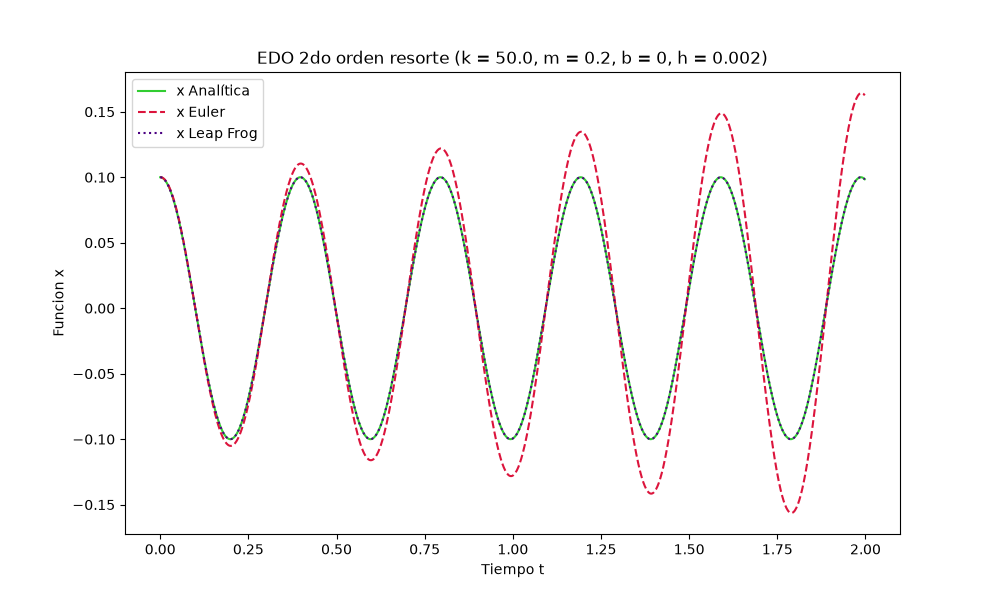
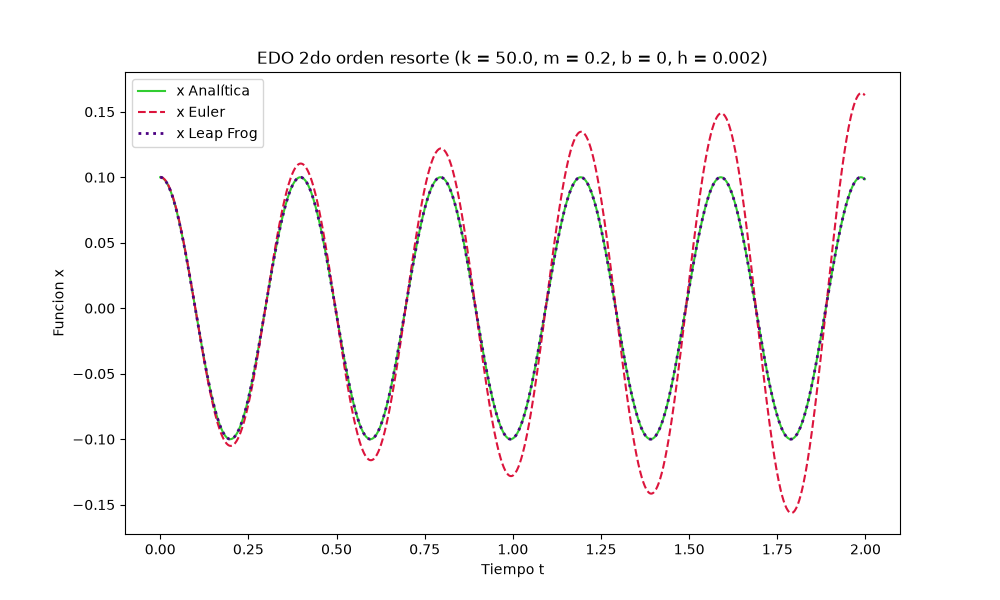
Linewidth scaled for better visibility.

diff --git a/S7/S7CASA/PLOTS_CristianParra_S7CASA_EDO2.py b/S7/S7CASA/PLOTS_CristianParra_S7CASA_EDO2.py
@@ -34,7 +34,7 @@ fig1, ax1 = plt.subplots(figsize=(10,6))
 # Gráfica del resorte
 ax0.plot(tiempo, analitica, label="x Analítica", color = "limegreen")
 ax0.plot(tiempo, x_Euler, label="x Euler", ls = "--", color = "crimson")
-ax0.plot(tiempo, x_LeapFrog, label="x Leap Frog", ls = ":", color = "indigo")
+ax0.plot(tiempo, x_LeapFrog, label="x Leap Frog", ls = ":", lw= 2, color = "indigo")
 ax0.set_xlabel("Tiempo t")
 ax0.set_ylabel("Funcion x")
 ax0.set_title(f"EDO 2do orden resorte (k = {k}, m = {m}, b = 0, h = {h})")
@@ -44,7 +44,7 @@ fig0.savefig("PLOTS_CristianParra_S6CASA_EDO2_RESORTE.png")
 # Gráfica del resorte amortiguado
 ax1.plot(tiempo, analitica_A, label="x Analítica Amortiguado", color = "limegreen")
 ax1.plot(tiempo, x_Euler_A, label="x Euler Amortiguado", ls = "--", color = "crimson")
-ax1.plot(tiempo, x_RK4_A, label="x RK4 Amortiguado", ls = ":", color = "indigo")
+ax1.plot(tiempo, x_RK4_A, label="x RK4 Amortiguado", ls = ":", lw= 2, color = "indigo")
 ax1.set_xlabel("Tiempo t")
 ax1.set_ylabel("Funcion x")
 ax1.set_title(f"EDO 2do orden amortiguado (k = {k}, m = {m}, b = {b}, h = {h})")
